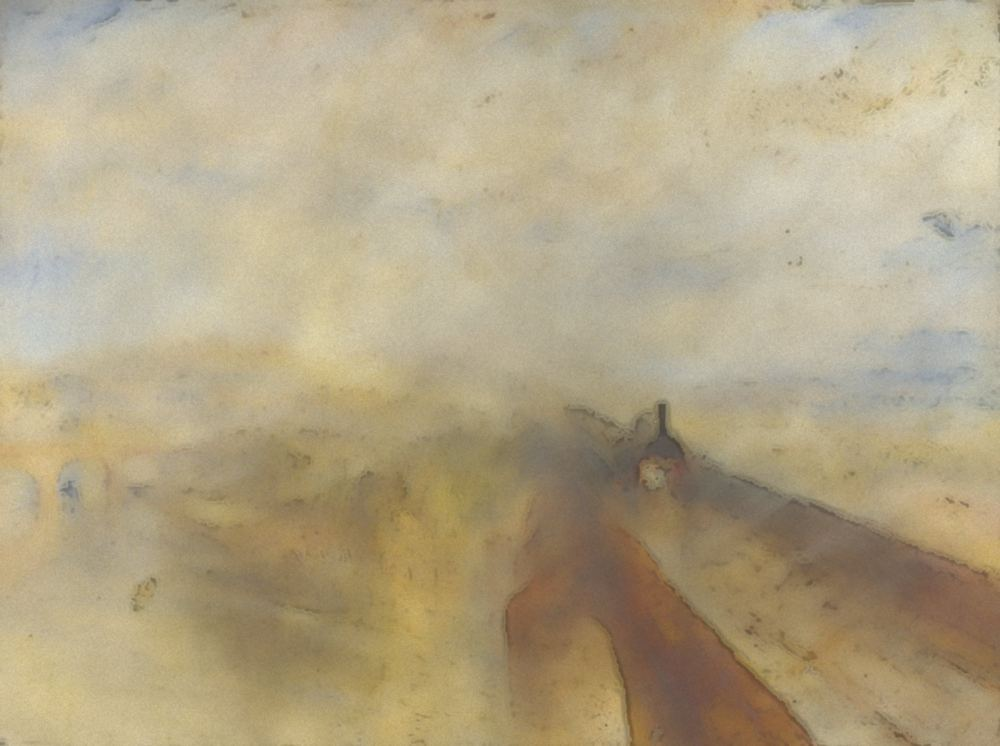
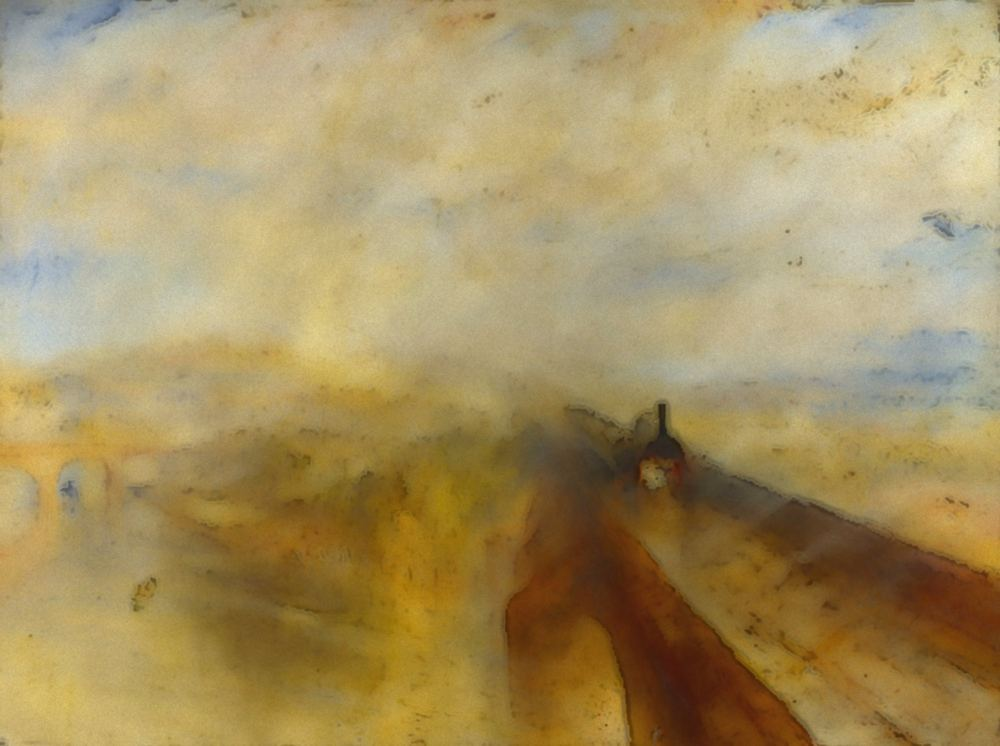
Richer watercolor: more color and contrast, text veil, frosted stats panel (preview)

diff --git a/style.css b/style.css
@@ -16,7 +16,7 @@
   --note-bg: #fbf7f1;
   --accent: #a9532f;
   --accent-soft: #f1dccd;
-  --art-opacity: 0.9;
+  --art-opacity: 1;
   --font-display: "Fraunces", Georgia, "Times New Roman", serif;
 }
 
@@ -33,7 +33,7 @@
   --note-bg: #1d232b;
   --accent: #e39a74;
   --accent-soft: #3a2a24;
-  --art-opacity: 0.6;
+  --art-opacity: 0.75;
 }
 
 * {
@@ -186,15 +186,31 @@ summary:focus-visible {
   object-position: 60% 78%;
   opacity: var(--art-opacity);
   /* Fade toward the paper on the left (behind the text) and at the bottom */
-  -webkit-mask-image: linear-gradient(to right, rgba(0,0,0,0.35), #000 60%), linear-gradient(to bottom, #000 60%, transparent);
+  -webkit-mask-image: linear-gradient(to right, rgba(0,0,0,0.6), #000 55%), linear-gradient(to bottom, #000 70%, transparent);
   -webkit-mask-composite: source-in;
-  mask-image: linear-gradient(to right, rgba(0,0,0,0.35), #000 60%), linear-gradient(to bottom, #000 60%, transparent);
+  mask-image: linear-gradient(to right, rgba(0,0,0,0.6), #000 55%), linear-gradient(to bottom, #000 70%, transparent);
   mask-composite: intersect;
   pointer-events: none;
 }
 
+/* A paper-colored veil behind the text column keeps it readable over the painting */
+.hero-band::after {
+  content: "";
+  position: absolute;
+  inset: 0;
+  background: linear-gradient(to right,
+    color-mix(in srgb, var(--bg) 78%, transparent) 0%,
+    color-mix(in srgb, var(--bg) 55%, transparent) 38%,
+    transparent 62%);
+  pointer-events: none;
+}
+
+.hero-band .hero {
+  z-index: 1;
+}
+
 :root[data-theme="dark"] .hero-art {
-  filter: brightness(0.55) saturate(0.9);
+  filter: brightness(0.6);
 }
 
 /* Paper grain over the whole page */
@@ -274,8 +290,11 @@ body::before {
   grid-template-columns: repeat(4, 1fr);
   gap: 1.5rem;
   margin-top: 3.5rem;
-  padding-top: 1.5rem;
-  border-top: 1px solid var(--line-2);
+  padding: 1.25rem 1.5rem;
+  border-radius: 10px;
+  background: color-mix(in srgb, var(--bg) 72%, transparent);
+  -webkit-backdrop-filter: blur(10px);
+  backdrop-filter: blur(10px);
 }
 
 .stats dt {
@@ -286,7 +305,7 @@ body::before {
 
 .stats dd {
   font-size: 0.85rem;
-  color: var(--text-4);
+  color: var(--text-3);
   margin-top: 0.2rem;
 }
 
@@ -544,7 +563,7 @@ body::before {
   }
 
   .hero-art {
-    opacity: calc(var(--art-opacity) * 0.6);
+    opacity: calc(var(--art-opacity) * 0.8);
   }
 
   .hero h1 {

diff --git a/tools/watercolor.py b/tools/watercolor.py
@@ -51,17 +51,19 @@ f = cv2.remap(f, gx + dx, gy + dy, cv2.INTER_LINEAR, borderMode=cv2.BORDER_REFLE
 
 # 3. Pigment: richer color, then lift toward the paper so it reads as transparent.
 hsv = cv2.cvtColor(f, cv2.COLOR_BGR2HSV)
-hsv[..., 1] = np.clip(hsv[..., 1] * 1.55, 0, 1)
+hsv[..., 1] = np.clip(hsv[..., 1] * 1.9, 0, 1)
 f = cv2.cvtColor(hsv, cv2.COLOR_HSV2BGR)
 paper = np.array([0.90, 0.95, 0.98], np.float32)  # BGR: warm cream
-f = f * 0.72 + paper * 0.28
+f = f * 0.88 + paper * 0.12
+# A little more contrast so the darks (viaduct, engine) carry weight.
+f = np.clip((f - 0.5) * 1.15 + 0.5, 0, 1)
 
 # 4. Edge darkening only along real wash boundaries (strong, coarse edges).
 gray = cv2.cvtColor(f, cv2.COLOR_BGR2GRAY)
 band = np.abs(cv2.GaussianBlur(gray, (0, 0), 1.5) - cv2.GaussianBlur(gray, (0, 0), 6))
 band = np.clip((band - np.percentile(band, 80)) / (np.percentile(band, 99.5) + 1e-6), 0, 1)
 band = cv2.GaussianBlur(band, (0, 0), 1.0)
-f *= (1 - 0.18 * band)[..., None]
+f *= (1 - 0.24 * band)[..., None]
 
 # 5. Granulation, blotchy pigment density, and cold-press paper tooth.
 granulation = 1 - 0.045 * (noise(5, 2) - 0.5)
